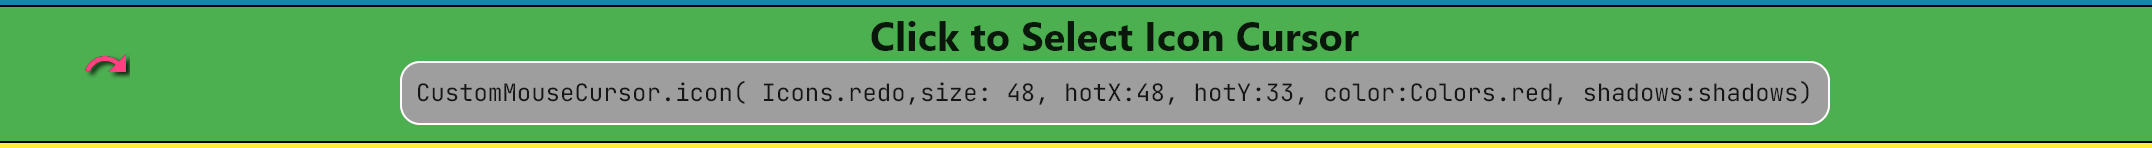
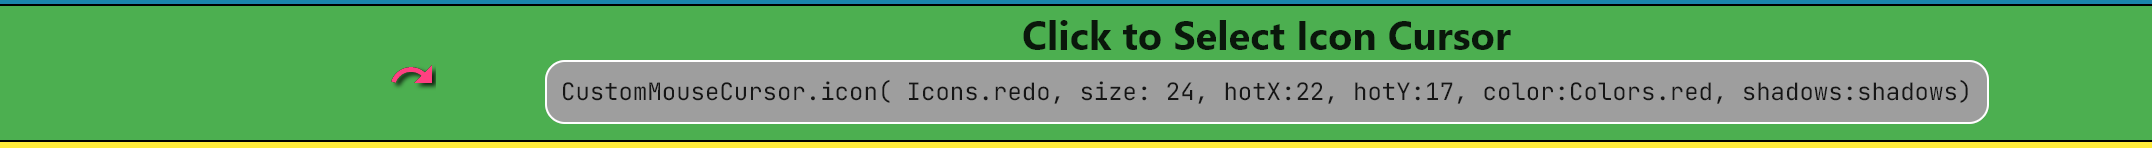
more readme/example image fixes

diff --git a/example/lib/main.dart b/example/lib/main.dart
@@ -99,9 +99,9 @@ Future<void> initializeCursors() async {
     ),
   ];
   iconCursor = await CustomMouseCursor.icon(Icons.redo,
-      size: 24, //48,
-      hotX: 22, //48,
-      hotY: 17, //33,
+      size: 24,
+      hotX: 22,
+      hotY: 17,
       color: Colors.pinkAccent,
       shadows: shadows);
 
@@ -308,7 +308,7 @@ class _MyAppState extends State<MyApp> with WidgetsBindingObserver {
               iconCursor,
               message: 'Click to Select Icon Cursor',
               details:
-                  'CustomMouseCursor.icon( Icons.redo,size: 48, hotX:48, hotY:33, color:Colors.red, shadows:shadows)',
+                  'CustomMouseCursor.icon( Icons.redo, size: 24, hotX:22, hotY:17, color:Colors.red, shadows:shadows)',
               color: Colors.green,
               selectCursorCallback: selectCursorCallback,
             ),

diff --git a/README.md b/README.md
@@ -41,7 +41,11 @@ Note: Currently, the api required by this plugin on Windows is included in flutt
 
 ## Example use
 Each example shows excerpt from example app with the the cursor the example code created showing on the left side of the image.
+The `CustomMouseCursor` cursor objects are used exactly as you would any `SystemMouseCursors.xxxx` cursor.
+Custom mouse cursors are can be created from asset images or icons.
 
+`CustomMouseCursor.asset()` and `CustomMouseCursor.exactasset()` are used to create custom cursors from asset images.
+`CustomMouseCursor.icon()` is used to create custom cursor from any IconData object (just as you would a regular `Icon` widget in flutter).
 
 <img src="https://raw.githubusercontent.com/timmaffett/custom_mouse_cursor/master/media/example_cursor1.png" width="100%">
 
@@ -67,10 +71,12 @@ Each example shows excerpt from example app with the the cursor the example code
 <img src="https://raw.githubusercontent.com/timmaffett/custom_mouse_cursor/master/media/example_cursor3.png" width="100%">
 
 ```dart
-  assetCursorOnly25 = await CustomMouseCursor.asset(
-      "assets/cursors/startrek_mousepointer25Only.png",
-      hotX: 18,
-      hotY: 0);
+  // Example of image asset only at 8x native DevicePixelRatio so will get scaled down to most/all encoutered DPR's
+  assetNative8x = await CustomMouseCursor.exactAsset(
+      "assets/cursors/star-trek-mouse-pointer-cursor292x512.png",
+      hotX: 144,
+      hotY: 0,
+      nativeDevicePixelRatio: 8.0);
 ```
 
 <img src="https://raw.githubusercontent.com/timmaffett/custom_mouse_cursor/master/media/example_cursor4.png" width="100%">
@@ -84,10 +90,11 @@ Each example shows excerpt from example app with the the cursor the example code
       spreadRadius: 2,
     ),
   ];
-  iconCursor = await CustomMouseCursor.icon(Icons.redo,
-      size: 24, //48,
-      hotX: 22, //48,
-      hotY: 17, //33,
+  iconCursor = await CustomMouseCursor.icon(
+      Icons.redo,
+      size: 24,
+      hotX: 22,
+      hotY: 17,
       color: Colors.pinkAccent,
       shadows: shadows);
 ```
